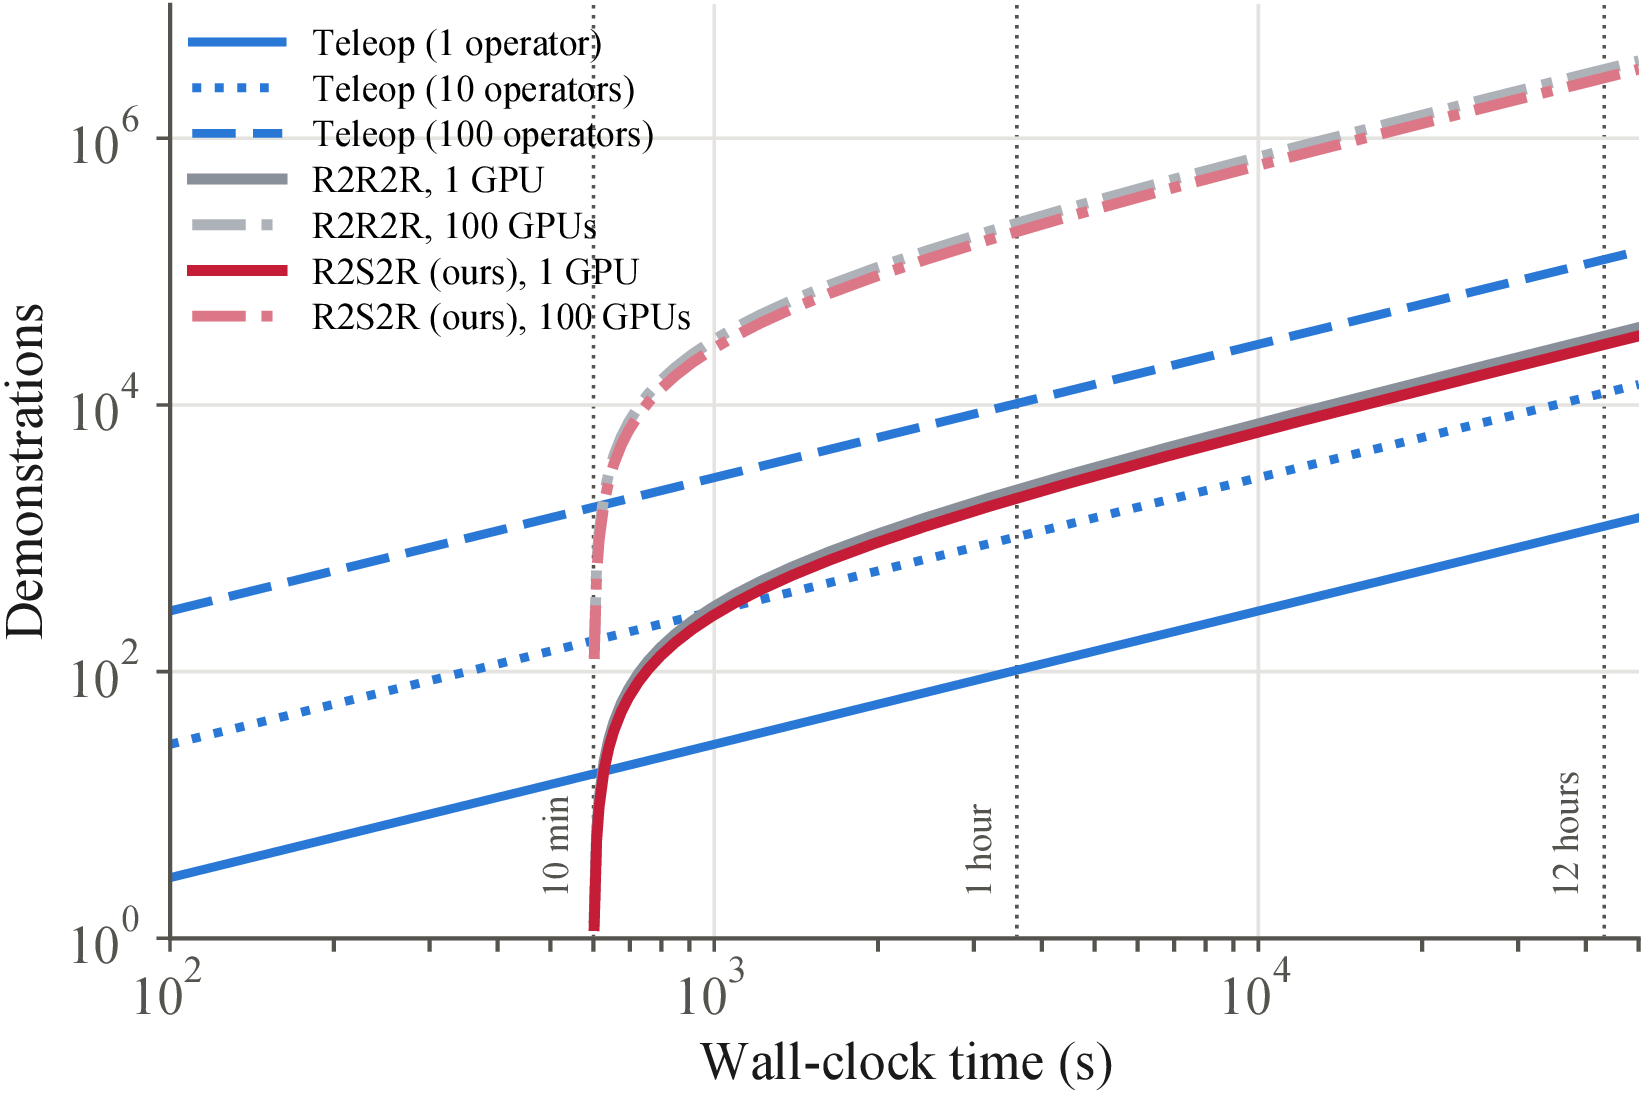
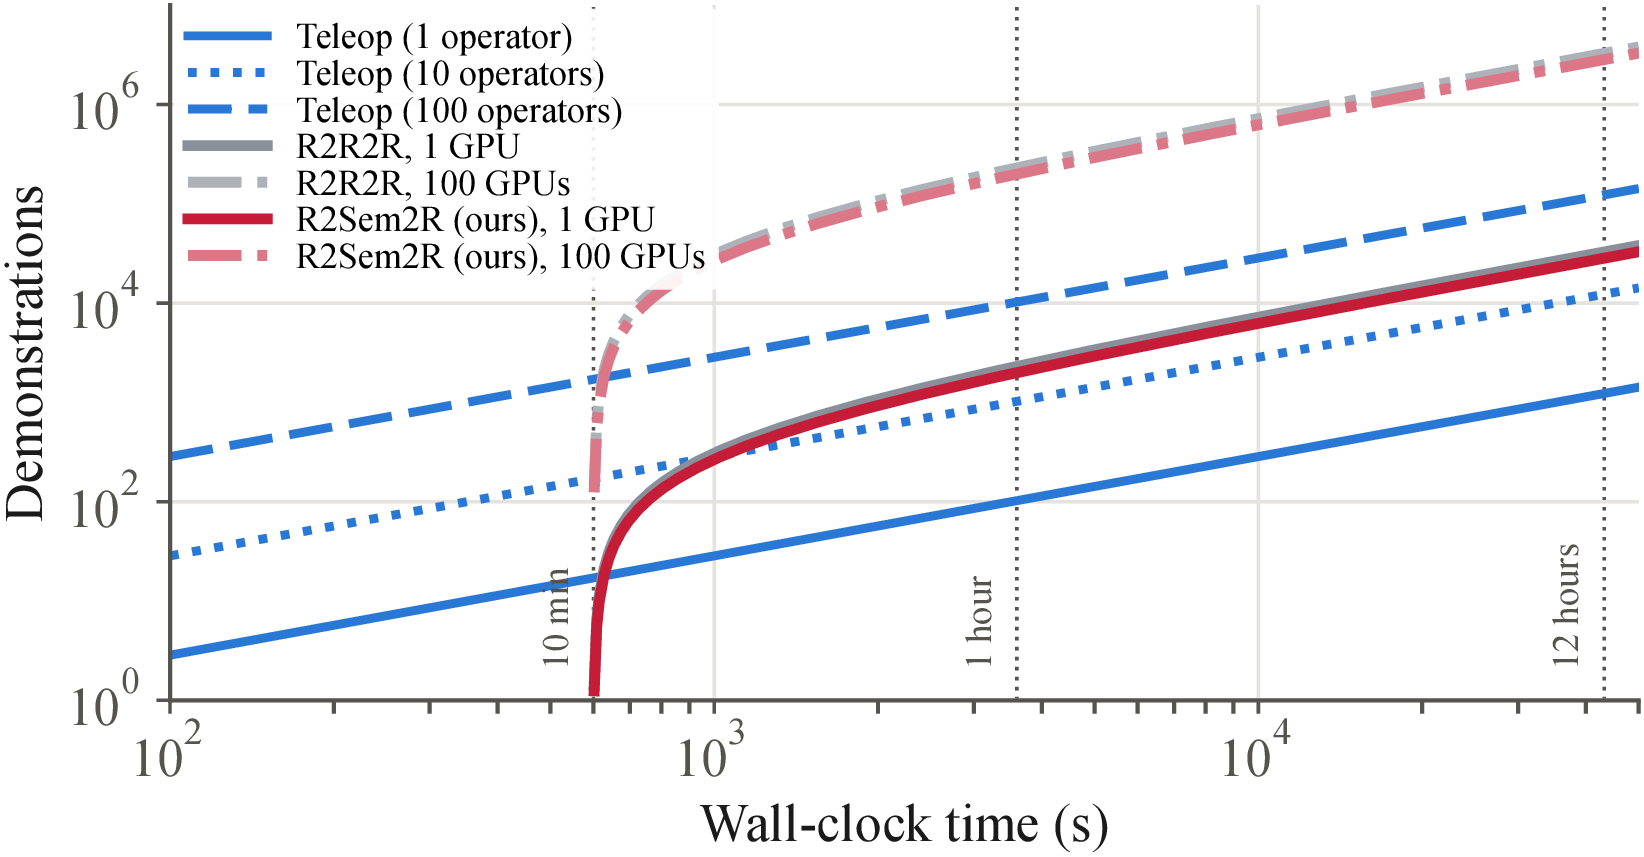
Rename R2S2R to R2Sem2R (page text, demos, results charts re-exported from the paper)

Changed region(s): [[0.0, 0.0303, 1.0, 1.0], [0.062, 0.091, 0.0931, 0.1214]]

diff --git a/index.html b/index.html
@@ -238,14 +238,14 @@
 </div>
 <p class="hero-cap"><b>Live: one human video, thousands of robot demonstrations.</b> Episodes our pipeline generated in
 IsaacSim, replayed in your browser on the xArm7. Switch between <b>R2R2R</b>, which varies only the poses of the one
-demonstrated mug and coffee machine, and <b>R2S2R</b>, which also swaps in digital cousins, and run nine environments in
+demonstrated mug and coffee machine, and <b>R2Sem2R</b>, which also swaps in digital cousins, and run nine environments in
 parallel. In every episode the carry replays the mug trajectory tracked from the single human video (inset). Drag to orbit.</p>
 
 <div class="hero">
   <figure class="narrow">
-    <img src="static/images/teaser.jpg" alt="Overview of R2S2R. Top, a single human RGB video and an object scan whose DINOv3 part matches link the demonstrated mug to cousin mugs. Middle, the real scene and splat cousins, with motion transfer across embodiments, produce synthetic data for place, pour, hang and drill. Bottom, a fine-tuned VLA deployed on the real xArm7 and Franka Panda succeeds on all four tasks.">
+    <img src="static/images/teaser.jpg" alt="Overview of R2Sem2R. Top, a single human RGB video and an object scan whose DINOv3 part matches link the demonstrated mug to cousin mugs. Middle, the real scene and splat cousins, with motion transfer across embodiments, produce synthetic data for place, pour, hang and drill. Bottom, a fine-tuned VLA deployed on the real xArm7 and Franka Panda succeeds on all four tasks.">
   </figure>
-  <p>Teleoperation pays for every demonstration, and every new object instance pays again. Real2Sem2Real (R2S2R) turns
+  <p>Teleoperation pays for every demonstration, and every new object instance pays again. Real2Sem2Real (R2Sem2R) turns
   <b>one human RGB video</b> into thousands of robot demonstrations across the object instances of a category,
   with no depth sensor and no teleoperation. It tracks the demonstrated objects, generates
   <b>digital cousins</b> of them from photographs, aligns the cousins to the demonstration by their semantics,
@@ -258,7 +258,7 @@ parallel. In every episode the carry replays the mug trajectory tracked from the
   </ul>
   <div class="stats hero-stats">
     <div class="stat"><div class="v">62 <small>&rarr;</small> 90<small>%</small></div>
-      <div class="l">Mug placement on the xArm7, teleoperation vs R2S2R</div></div>
+      <div class="l">Mug placement on the xArm7, teleoperation vs R2Sem2R</div></div>
     <div class="stat"><div class="v">36 <small>&rarr;</small> 90<small>%</small></div>
       <div class="l">Same task, one object pair (R2R2R) vs digital cousins</div></div>
     <div class="stat"><div class="v">7 <small>/</small> 7</div>
@@ -278,16 +278,16 @@ parallel. In every episode the carry replays the mug trajectory tracked from the
   <p>Existing real-to-sim pipelines also break at three recurring points: the object track drifts, the
   recovered grasp collides with the object, and the reconstructed meshes look nothing like the real scene.</p>
   <figure>
-    <img src="static/images/common_failure_modes.jpg" loading="lazy" alt="Three rows, tracking, grasps and bad meshes, each comparing the real scene (GT), a prior method, and R2S2R. The prior tracker renders the mug from a wrong pose, the prior grasp collides with the mug, and the prior coffee-machine mesh is blotchy; R2S2R gets each right.">
+    <img src="static/images/common_failure_modes.jpg" loading="lazy" alt="Three rows, tracking, grasps and bad meshes, each comparing the real scene (GT), a prior method, and R2Sem2R. The prior tracker renders the mug from a wrong pose, the prior grasp collides with the mug, and the prior coffee-machine mesh is blotchy; R2Sem2R gets each right.">
     <figcaption><b>Common failure modes.</b> Against the real scene (GT), prior trackers lose the object, prior grasps
-    collide with the mug instead of taking its handle, and prior meshes look unrealistic. R2S2R tracks the mug,
+    collide with the mug instead of taking its handle, and prior meshes look unrealistic. R2Sem2R tracks the mug,
     grasps it by the handle as the human did, and renders realistic objects.</figcaption>
   </figure>
 </section>
 
 <section id="method">
   <div class="eyebrow">02</div>
-  <h2>How does R2S2R work?</h2>
+  <h2>How does R2Sem2R work?</h2>
   <figure class="wide">
     <img src="static/images/pipeline.jpg" loading="lazy" alt="Pipeline in four panels: a single human RGB demonstration with the recovered hand mesh, a generated library of 16 cousin mugs and 9 cousin coffee machines, robot demonstrations rendered in simulation along the tracked trajectory, and the deployed policy succeeding on in- and out-of-distribution mugs and machines.">
   </figure>
@@ -470,7 +470,7 @@ parallel. In every episode the carry replays the mug trajectory tracked from the
   <p>We fine-tune the &pi;<sub>0.5</sub> vision-language-action model on three kinds of data and evaluate on real
   robots: <b>teleoperation</b>, 150 real demonstrations collected across several objects; <b>R2R2R</b>, 2,000
   generated episodes of the single demonstrated object pair, following Real2Render2Real; and
-  <b>R2S2R</b>, 2,000 generated episodes across digital cousins.</p>
+  <b>R2Sem2R</b>, 2,000 generated episodes across digital cousins.</p>
 
   <h3>The four tasks</h3>
   <figure class="narrow">
@@ -486,12 +486,12 @@ parallel. In every episode the carry replays the mug trajectory tracked from the
 
   <h3>Watch the rollouts</h3>
   <div class="demo wide" data-demo="rollouts">
-    <div class="demo-fallback">Side-by-side real-robot rollouts of the R2R2R and R2S2R policies need JavaScript.</div>
+    <div class="demo-fallback">Side-by-side real-robot rollouts of the R2R2R and R2Sem2R policies need JavaScript.</div>
   </div>
   <p class="hero-cap"><b>Interactive: real-robot rollouts, in sync.</b> The same task on the same robot, run by a policy
   trained on 2,000 generated episodes of the single demonstrated object pair (R2R2R) and by one trained on 2,000 episodes
-  across digital cousins (R2S2R). Clips are in recording order, skipping ones in which a person steps into view, and end
-  before the scene is reset; for the Franka Panda placement with R2S2R we also skipped one failure and one trial with an
+  across digital cousins (R2Sem2R). Clips are in recording order, skipping ones in which a person steps into view, and end
+  before the scene is reset; for the Franka Panda placement with R2Sem2R we also skipped one failure and one trial with an
   unclear outcome, so the three clips shown sit closer to its measured rate. The bars give the success rate over every
   real-robot trial.</p>
   <p class="takeaway">Digital cousins beat a single object pair on every task and robot evaluated so far, by 28
@@ -513,14 +513,14 @@ parallel. In every episode the carry replays the mug trajectory tracked from the
 
   <h3>More generated data keeps helping</h3>
   <figure class="narrow">
-    <img src="static/images/data_scaling.png" loading="lazy" alt="Line chart of success against the number of training episodes on a log scale, for teleoperation on several objects, R2S2R across cousins, teleoperation on one pair, and R2R2R on one pair.">
+    <img src="static/images/data_scaling.png" loading="lazy" alt="Line chart of success against the number of training episodes on a log scale, for teleoperation on several objects, R2Sem2R across cousins, teleoperation on one pair, and R2R2R on one pair.">
     <figcaption><b>Success against training-set size</b> on xArm7 placement. R2R2R levels off below 40%, while
-    R2S2R keeps improving and passes the largest teleoperated set.</figcaption>
+    R2Sem2R keeps improving and passes the largest teleoperated set.</figcaption>
   </figure>
 
   <details class="more"><summary>What the data costs to collect</summary>
   <figure>
-    <img src="static/images/scaling_comparison.png" loading="lazy" alt="Log-log plot of demonstrations produced against wall-clock time for teleoperation with 1, 10 and 100 operators and for R2R2R and R2S2R with 1 and 100 GPUs.">
+    <img src="static/images/scaling_comparison.png" loading="lazy" alt="Log-log plot of demonstrations produced against wall-clock time for teleoperation with 1, 10 and 100 operators and for R2R2R and R2Sem2R with 1 and 100 GPUs.">
     <figcaption><b>Demonstrations against wall-clock time.</b> Teleoperation grows linearly with human time.
     Generated data needs a short one-time setup and then scales with GPUs.</figcaption>
   </figure>
@@ -596,7 +596,7 @@ parallel. In every episode the carry replays the mug trajectory tracked from the
   store, or generated by an image model.</p></details>
 
   <details><summary>How is this different from Real2Render2Real?</summary>
-  <p>R2R2R augments the poses of the objects that were demonstrated. R2S2R adds semantic augmentation:
+  <p>R2R2R augments the poses of the objects that were demonstrated. R2Sem2R adds semantic augmentation:
   the same demonstration is transferred to new object instances. Trained on the same number of episodes, the
   cousins raise mug placement on the xArm7 from 36% to 90%.</p></details>
 
@@ -619,7 +619,7 @@ parallel. In every episode the carry replays the mug trajectory tracked from the
   // Results charts and table, from the project's results tracker (successes / trials per condition).
   // To update: edit R below. null = evaluation still running.
   (function(){
-    var M=[['teleop','Teleoperation (150 demos)'],['r2r2r','R2R2R (2k episodes, one pair)'],['ours','R2S2R (2k episodes, cousins)']];
+    var M=[['teleop','Teleoperation (150 demos)'],['r2r2r','R2R2R (2k episodes, one pair)'],['ours','R2Sem2R (2k episodes, cousins)']];
     var R={
       xarm7:[['Mug on coffee machine',[35,56],[18,50],[45,50]],
              ['Pour into bowl',[35,48],[22,48],[37,50]],
@@ -631,7 +631,7 @@ parallel. In every episode the carry replays the mug trajectory tracked from the
              ['Drill pick and place',[33,50],[12,40],[26,40]]]
     };
     var NAME={xarm7:'xArm7',panda:'Franka Panda'};
-    window.R2S2R_RESULTS={methods:M, results:R, robots:NAME};   // read by the interactive demos (static/demos/*), so every number on the page comes from R
+    window.R2Sem2R_RESULTS={methods:M, results:R, robots:NAME};   // read by the interactive demos (static/demos/*), so every number on the page comes from R
     function esc(s){ return String(s).replace(/&/g,'&amp;').replace(/</g,'&lt;'); }
     function pct(c){ var x=100*c[0]/c[1], f=Math.floor(x); if (Math.abs(x-f-0.5)<1e-9) return f%2===0 ? f : f+1; return Math.round(x); }   // exact halves round to even, as in the paper (62.5 -> 62, 37.5 -> 38)
     document.querySelectorAll('[data-chart]').forEach(function(el){

diff --git a/static/demos/hero/hero.js b/static/demos/hero/hero.js
@@ -1,6 +1,6 @@
 // Hero demo: "one human video -> thousands of robot demonstrations". Replays IsaacSim episodes generated by the
 // pipeline (xArm7, mug -> coffee machine; hero/episodes.json + episodes.bin, all in the robot-base frame) and lets the
-// visitor switch between R2R2R-style data (the one demonstrated mug and machine, randomized poses) and R2S2R data
+// visitor switch between R2R2R-style data (the one demonstrated mug and machine, randomized poses) and R2Sem2R data
 // (digital cousins too), in one environment or nine parallel ones. The carry phase of every episode follows the mug
 // trajectory tracked from the human video, shown in the inset in sync.
 import { THREE, createViewer, onTheme, ease, mat4, loadingOverlay, reducedMotion } from '../core/viewer.js';
@@ -13,7 +13,7 @@ const GRID = 3, SPACING = 1.08;         // parallel environments
 const PHASE_LABEL = ['Reach', 'Reach', 'Approach', 'Grasp', 'Carry · replays the human trajectory', 'Release'];
 const MODES = {
   r2r2r: { name: 'R2R2R', long: 'One object pair', col: '--r2r2r', method: 1 },
-  ours: { name: 'R2S2R', long: 'Digital cousins', col: '--ours', method: 2 },
+  ours: { name: 'R2Sem2R', long: 'Digital cousins', col: '--ours', method: 2 },
 };
 const css = v => getComputedStyle(document.documentElement).getPropertyValue(v).trim();
 const rnd = n => Math.floor(Math.random() * n);
@@ -265,7 +265,7 @@ export async function mount(el) {
   bar.innerHTML = `
     <div class="seg" role="group" aria-label="Training data">
       <button data-mode="r2r2r" aria-pressed="false"><i style="background:var(--r2r2r)"></i>R2R2R · one pair</button>
-      <button data-mode="ours" aria-pressed="true"><i style="background:var(--ours)"></i>R2S2R · cousins</button>
+      <button data-mode="ours" aria-pressed="true"><i style="background:var(--ours)"></i>R2Sem2R · cousins</button>
     </div>
     <div class="seg" role="group" aria-label="View">
       <button data-view="1" aria-pressed="true">1 env</button>
@@ -395,7 +395,7 @@ export async function mount(el) {
       : `${cap(cousinName.mug(ep.mug))} <span class="mut">&times;</span> ${cousinName.cm(ep.cm)}`;
   }
   const real = (() => {
-    const R = window.R2S2R_RESULTS && window.R2S2R_RESULTS.results && window.R2S2R_RESULTS.results.xarm7;
+    const R = window.R2Sem2R_RESULTS && window.R2Sem2R_RESULTS.results && window.R2Sem2R_RESULTS.results.xarm7;
     const row = R && R.find(r => /coffee machine/i.test(r[0]));
     const pc = c => c ? Math.round(100 * c[0] / c[1]) + '<small>%</small>' : '&ndash;';
     return row ? { r2r2r: pc(row[2]), ours: pc(row[3]) } : { r2r2r: '&ndash;', ours: '&ndash;' };

diff --git a/static/demos/rollouts/rollouts.js b/static/demos/rollouts/rollouts.js
@@ -1,6 +1,6 @@
-// Real-robot rollouts of the R2R2R and R2S2R policies, side by side and in sync, with the success rates of every
+// Real-robot rollouts of the R2R2R and R2Sem2R policies, side by side and in sync, with the success rates of every
 // method for the selected robot and task underneath. The clips and their selection are listed in manifest.json;
-// every number comes from window.R2S2R_RESULTS (the results table of the page).
+// every number comes from window.R2Sem2R_RESULTS (the results table of the page).
 const BASE = new URL('./', import.meta.url);
 const ASPECT = { xarm7: '640 / 368', panda: '640 / 452' };
 const ROBOTS = ['xarm7', 'panda'];
@@ -8,7 +8,7 @@ const SPEEDS = [1, 2, 4];
 const HOLD = 1.6;                   // seconds both clips hold their last frame before the pair loops
 const LABEL = {
   r2r2r: ['R2R2R', 'one object pair'],
-  ours: ['R2S2R', 'digital cousins'],
+  ours: ['R2Sem2R', 'digital cousins'],
 };
 const PLAY = '<svg viewBox="0 0 16 16"><path d="M4 2.5v11l9.5-5.5z"/></svg>';
 const PAUSE = '<svg viewBox="0 0 16 16"><path d="M3.5 2.5h3.2v11H3.5zM9.3 2.5h3.2v11H9.3z"/></svg>';
@@ -28,7 +28,7 @@ function ensureCss() {
 export async function mount(el) {
   ensureCss();
   const manifest = await (await fetch(new URL('manifest.json', BASE))).json();
-  const RES = window.R2S2R_RESULTS || { methods: [], results: {}, robots: { xarm7: 'xArm7', panda: 'Franka Panda' } };
+  const RES = window.R2Sem2R_RESULTS || { methods: [], results: {}, robots: { xarm7: 'xArm7', panda: 'Franka Panda' } };
   const robots = ROBOTS.filter(r => manifest.tasks.some(t => t.robot === r));
   const st = { robot: robots[0], task: null, trial: 0, speed: 2, playing: true, loaded: false, visible: false,
                holdUntil: 0, scrubbing: false, wasPlaying: false };
@@ -93,7 +93,7 @@ export async function mount(el) {
 
   function renderResults() {
     const rows = (RES.results[st.robot] || []).find(r => r[0] === st.task.task);
-    const methods = RES.methods.length ? RES.methods : [['teleop', 'Teleoperation'], ['r2r2r', 'R2R2R'], ['ours', 'R2S2R']];
+    const methods = RES.methods.length ? RES.methods : [['teleop', 'Teleoperation'], ['r2r2r', 'R2R2R'], ['ours', 'R2Sem2R']];
     let h = `<div class="rh">Real-robot success, ${esc(RES.robots[st.robot] || st.robot)} &middot; ${esc(st.task.task)}<span>all trials</span></div><div class="rows">`;
     methods.forEach(([k, name], i) => {
       const c = rows ? rows[i + 1] : null, short = name.split(' (')[0], vid = k !== 'teleop' ? ' vid' : '';

diff --git a/README.md b/README.md
@@ -20,11 +20,11 @@ MuJoCo 3.14 WebAssembly, Spark 2.2 for Gaussian splats), mapped by the import ma
 
 | demo | what it shows | data |
 |---|---|---|
-| `hero` | generated IsaacSim episodes replayed on the xArm7; R2R2R vs R2S2R data, 1 or 9 environments | `hero/episodes.{json,bin}`, `assets/` |
+| `hero` | generated IsaacSim episodes replayed on the xArm7; R2R2R vs R2Sem2R data, 1 or 9 environments | `hero/episodes.{json,bin}`, `assets/` |
 | `splat` | the scanned scene as Gaussian splats with the tracked mug path, hand and camera | `splat/` |
 | `physics` | a generated MuJoCo episode re-simulated live, with drag-to-push | `physics/scenes/` |
 | `tracking` | per-frame tracker silhouettes and mask IoU on the human video | `tracking/` |
-| `rollouts` | real-robot R2R2R vs R2S2R rollouts in sync; bars read the `R` table | `rollouts/manifest.json`, `media/` |
+| `rollouts` | real-robot R2R2R vs R2Sem2R rollouts in sync; bars read the `R` table | `rollouts/manifest.json`, `media/` |
 | `mymug` | a mug photo rebuilt in 3D in the browser, placed by the xArm7 (SlimSAM from Hugging Face, transformers.js from jsDelivr, loaded only for uploads) | `mymug/` |
 
 The demo data files are generated by scripts kept outside this repository. Numbers shown by `hero` and `rollouts`
